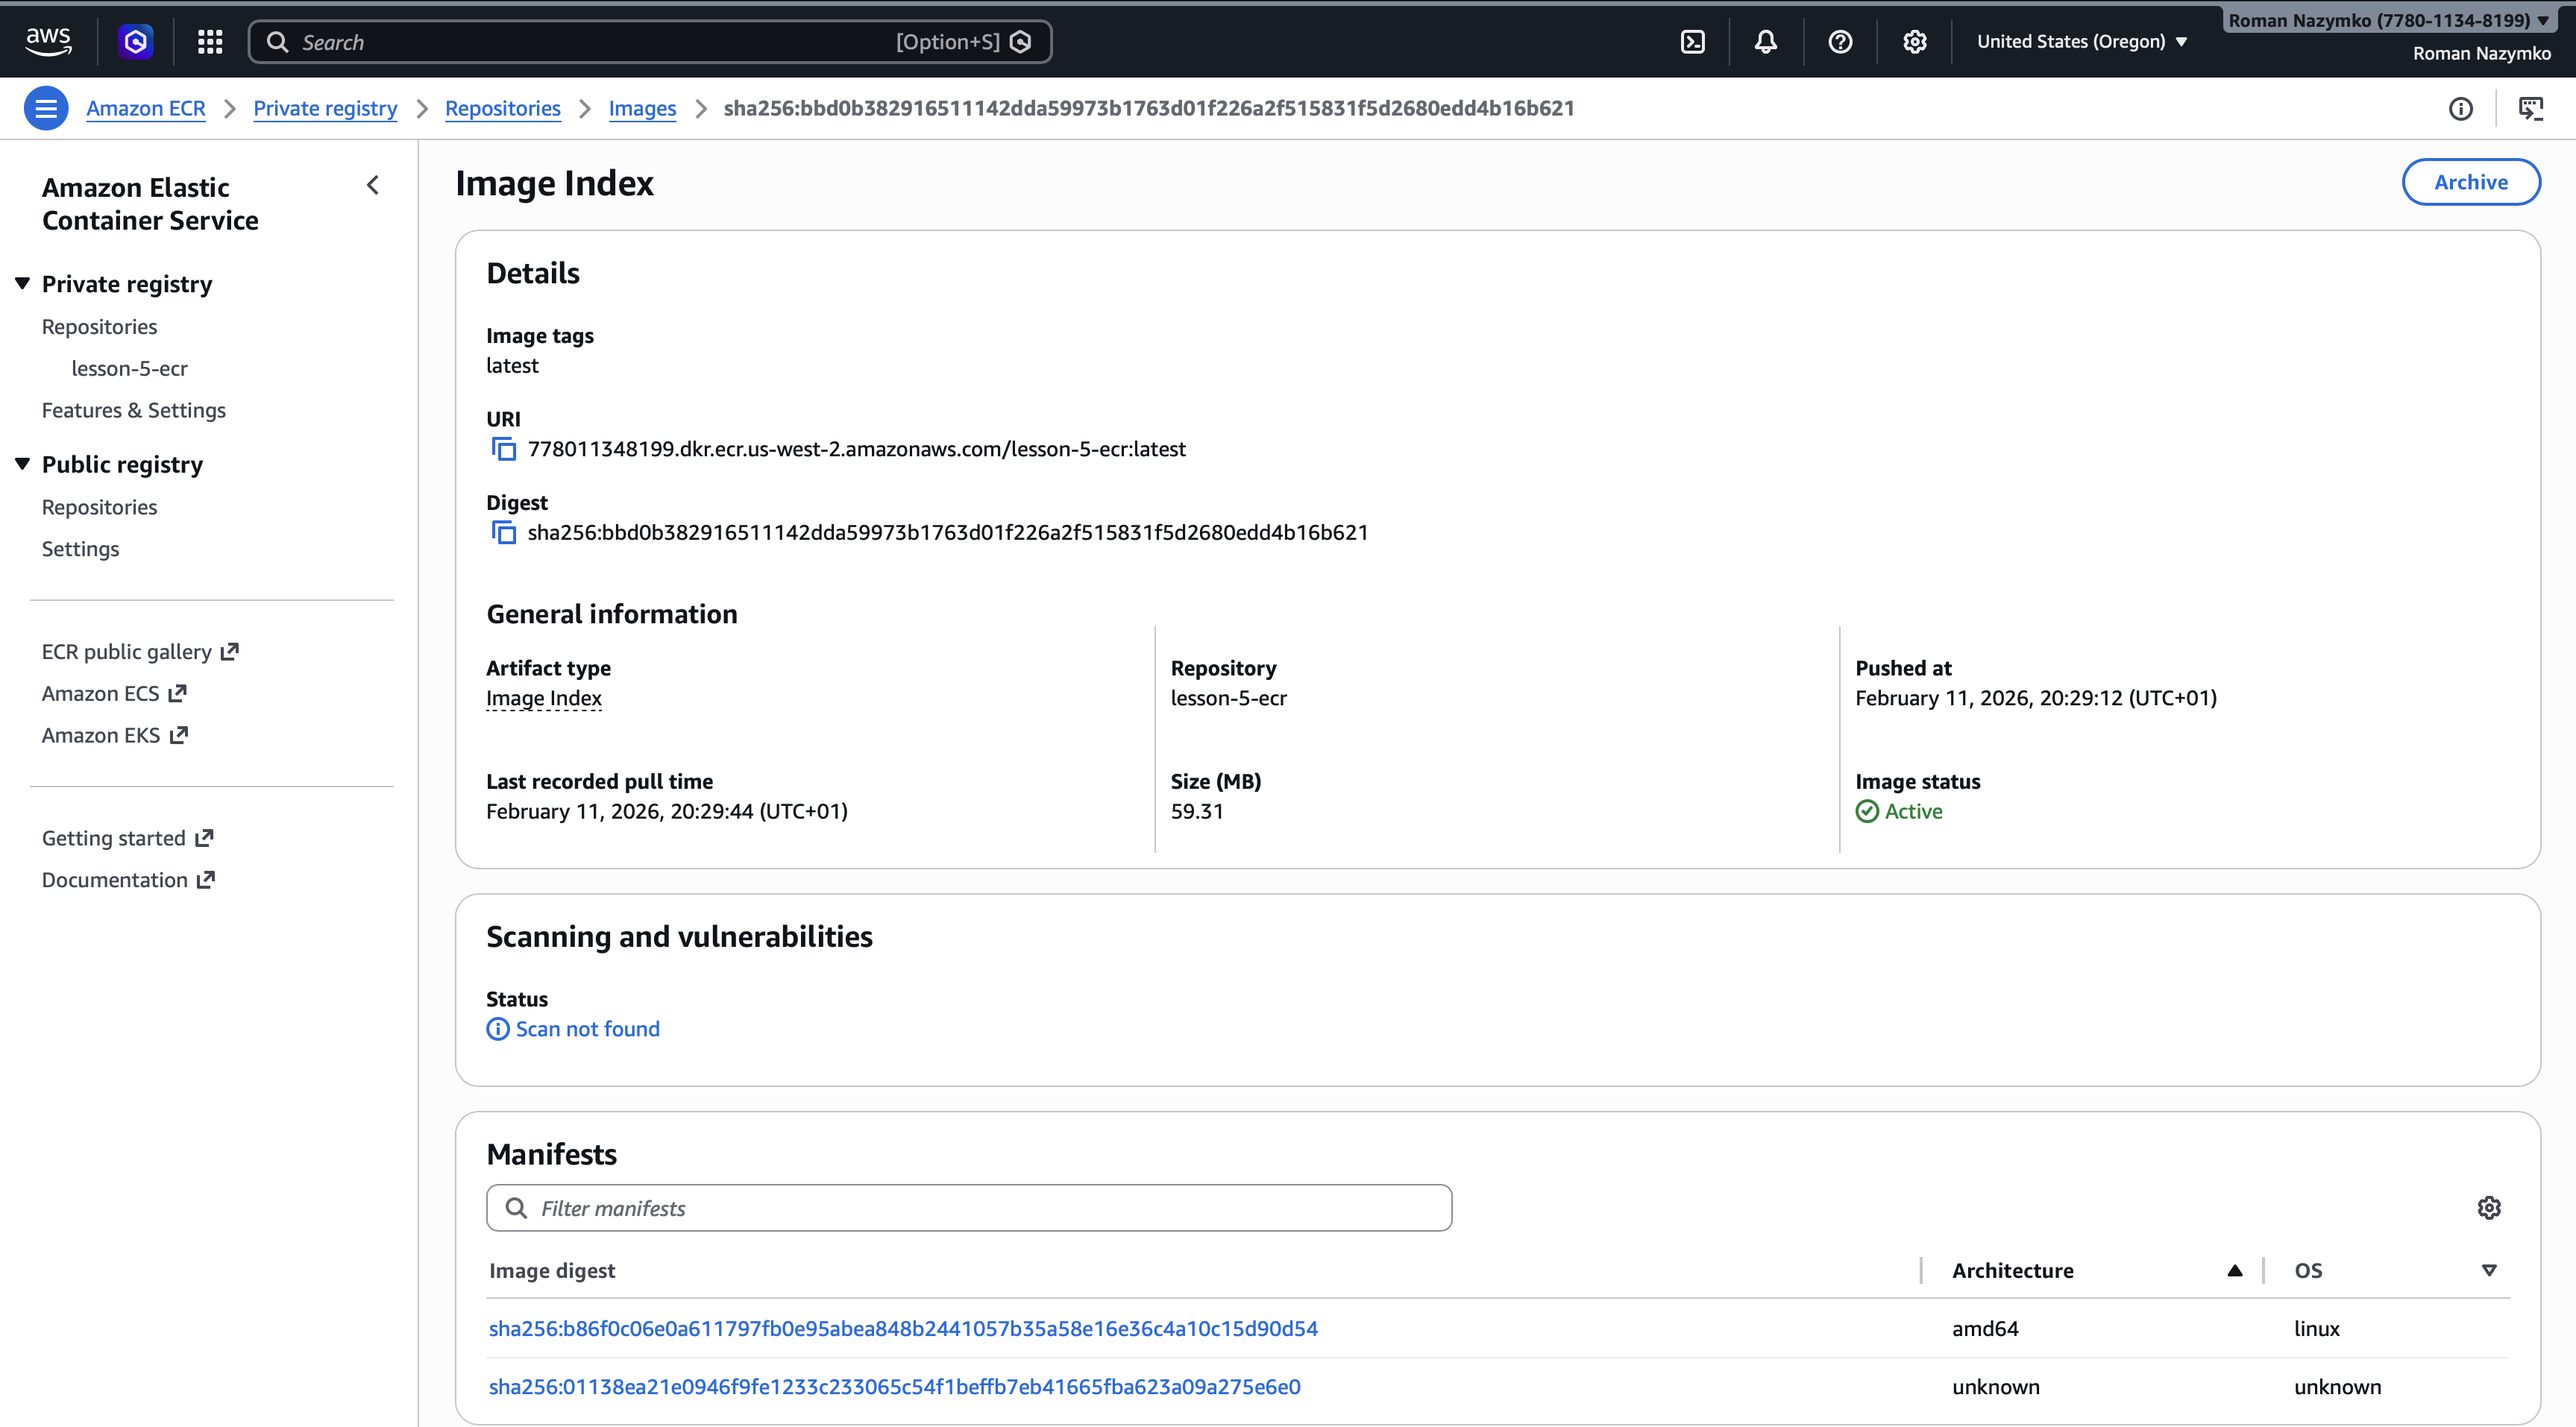
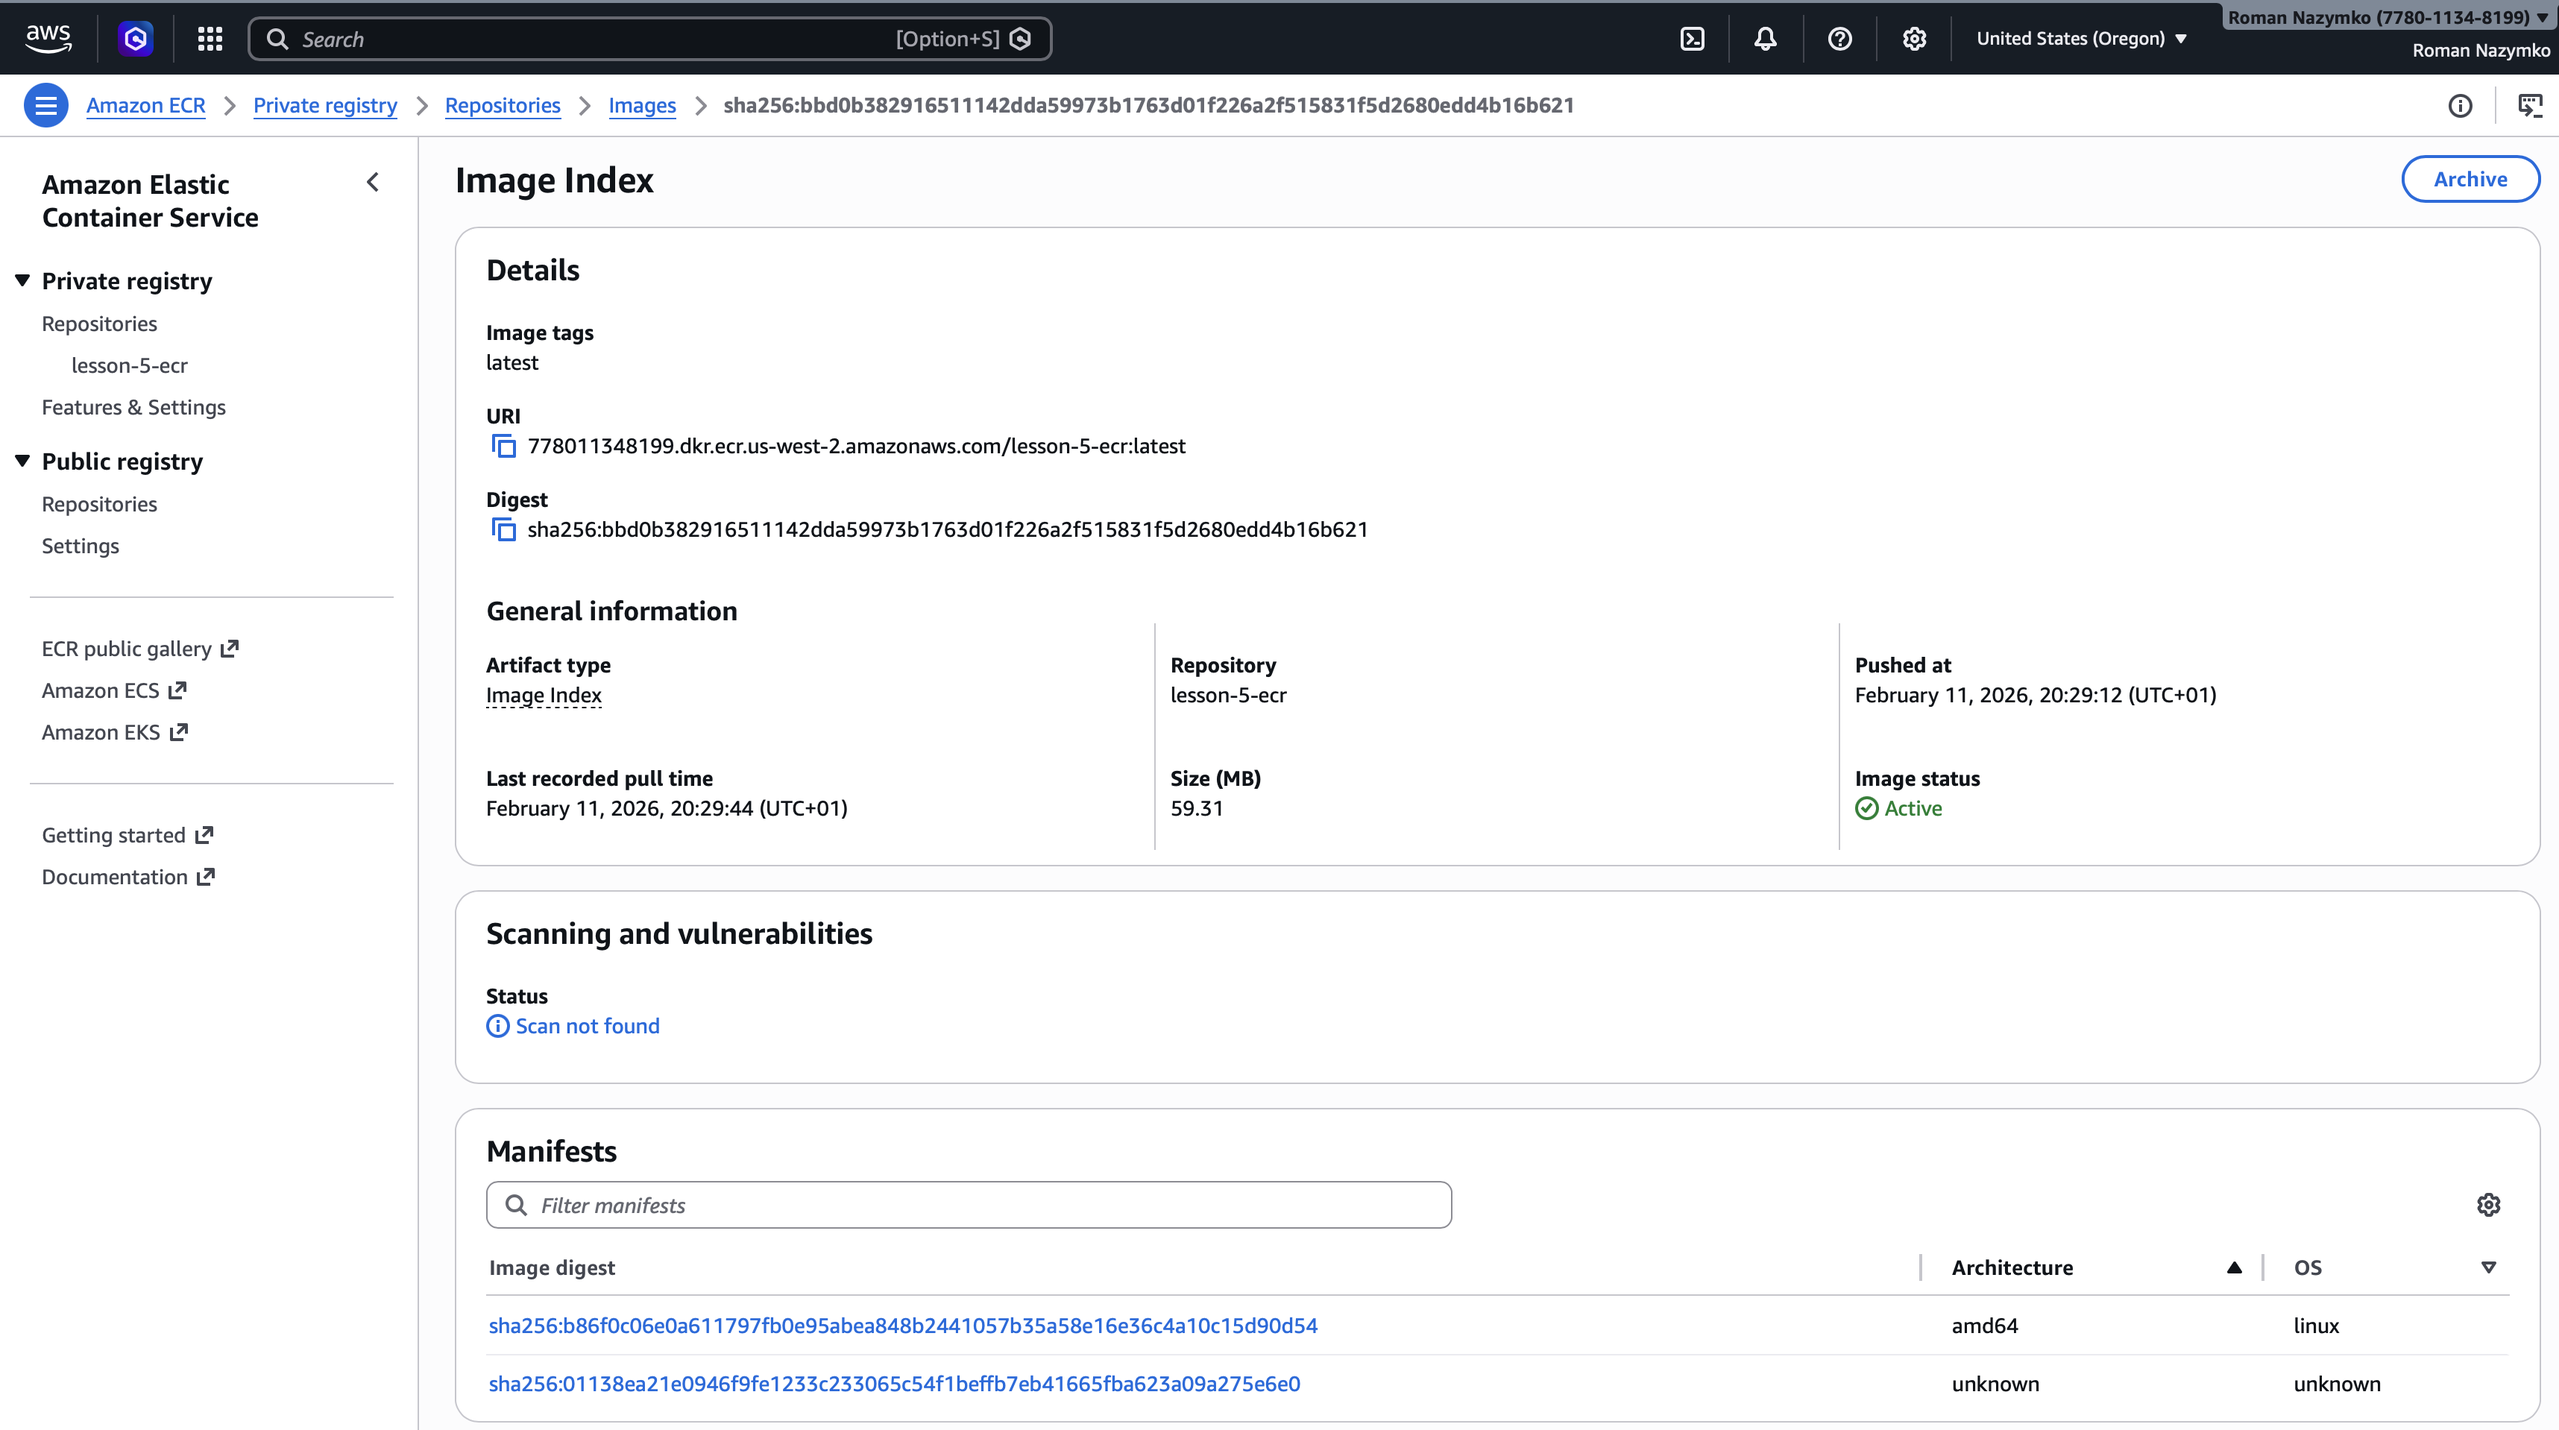
updated readme

diff --git a/README.md b/README.md
@@ -1,68 +1,61 @@
-# Домашнє завдання до теми «Вивчення Helm»
+# Домашнє завдання до теми «Вивчення Agro CD + CD»
 
-## Опис
+## Terraform
 
-У цьому проєкті реалізовано інфраструктуру для запуску Django-застосунку в
-Kubernetes.  
-Використовуються **Terraform** для створення ресурсів в AWS та **Helm** для
-деплойменту застосунку.
+Інструкції для застосування Terraform:
 
 ```bash
-# Ініціалізація Terraform (завантаження провайдерів і модулів)
+# Ініціалізація Terraform
 terraform init
 
-# Перегляд планованих змін інфраструктури
+# Перевірка плану змін
 terraform plan
 
-# Застосування конфігурації
+# Застосування змін (підтвердження "yes")
 terraform apply
 
-# Видалення інфраструктури
-terraform destroy
-
-```
-
-## Виконані кроки
-
-### 1. Створення Kubernetes-кластера (EKS)
-
-- За допомогою Terraform у вже існуючій VPC створено кластер Kubernetes (EKS).
-- Налаштовано доступ до кластера через `kubectl`.
-
-### 2. Elastic Container Registry (ECR)
-
-- Terraform створює ECR-репозиторій.
-- Django Docker-образ завантажено в ECR за допомогою AWS CLI:
-
-```bash
-aws ecr get-login-password --region <region> | docker login --username AWS --password-stdin <account_id>.dkr.ecr.<region>.amazonaws.com
-docker build -t django-app .
-docker tag django-app:latest <account_id>.dkr.ecr.<region>.amazonaws.com/django-app:latest
-docker push <account_id>.dkr.ecr.<region>.amazonaws.com/django-app:latest
-```
-
-### 3. Helm-чарт
-
-У каталозі `charts/django-app/` реалізовано:
-
-- **Deployment** — запускає контейнер із образом із ECR, підключає `ConfigMap`
-  через `envFrom`.
-- **Service** — типу `LoadBalancer` для зовнішнього доступу.
-- **HPA** — масштабує від 2 до 6 подів при CPU > 70%.
-- **ConfigMap** — з усіма змінними середовища (перенесеними з попереднього
-  завдання).
-- **values.yaml** — містить параметри образу, сервісу, autoscaler та
-  конфігурації.
-
----
-
-### 4. Деплоймент застосунку
-
-```bash
-helm install django-app ./charts/django-app
-```
 
 ## Результат
 
-![Results](./lesson-7/assets/terminal.png) ![Results](./lesson-7/assets/helm.png)
-![Results](./lesson-7/assets/ecr.png) ![Results](./lesson-7/assets/eks.png)
+![Results](./assets/terraform.png) ![Results](./assets/docker.png)
+![Results](./assets/ecr.png) ![Results](./assets/eks.png)
+![Results](./assets/terminal.png)
+```
+
+## Jenkins
+
+Як перевірити Jenkins job:
+
+1. Відкрий Jenkins UI у браузері: http://<JENKINS_SERVER>:8080
+2. Вибери потрібну job (наприклад, build-django-app)
+3. Натисни "Build Now"
+4. Переглянь "Console Output" для результатів виконання
+
+## Argo CD
+
+Як побачити результат у Argo CD:
+
+1. Проброс порту для доступу до UI Argo CD: kubectl port-forward
+   svc/argo-cd-argocd-server -n argocd 8080:443
+
+2. Відкрий у браузері: https://localhost:8080
+
+3. Логін:
+
+   - Користувач: admin
+   - Пароль: kubectl -n argocd get secret argocd-initial-admin-secret -o
+     jsonpath="{.data.password}" | base64 -d
+
+4. Перевірка статусу додатків: kubectl get applications.argoproj.io -n argocd
+
+5. Перегляд подів Argo CD: kubectl get pods -n argocd
+
+6. Перегляд сервісів Argo CD: kubectl get svc -n argocd
+
+7. Для синхронізації додатку у UI Argo CD натисни "Sync"
+
+## Результати
+
+![Results](./Project/assets/terminal.png) ![Results](./Project/assets/ecr.png)
+![Results](./Project/assets/jenkins.png) ![Results](./Project/assets/argo_cd_1.png)
+![Results](./Project/assets/argo_cd_2.png)
